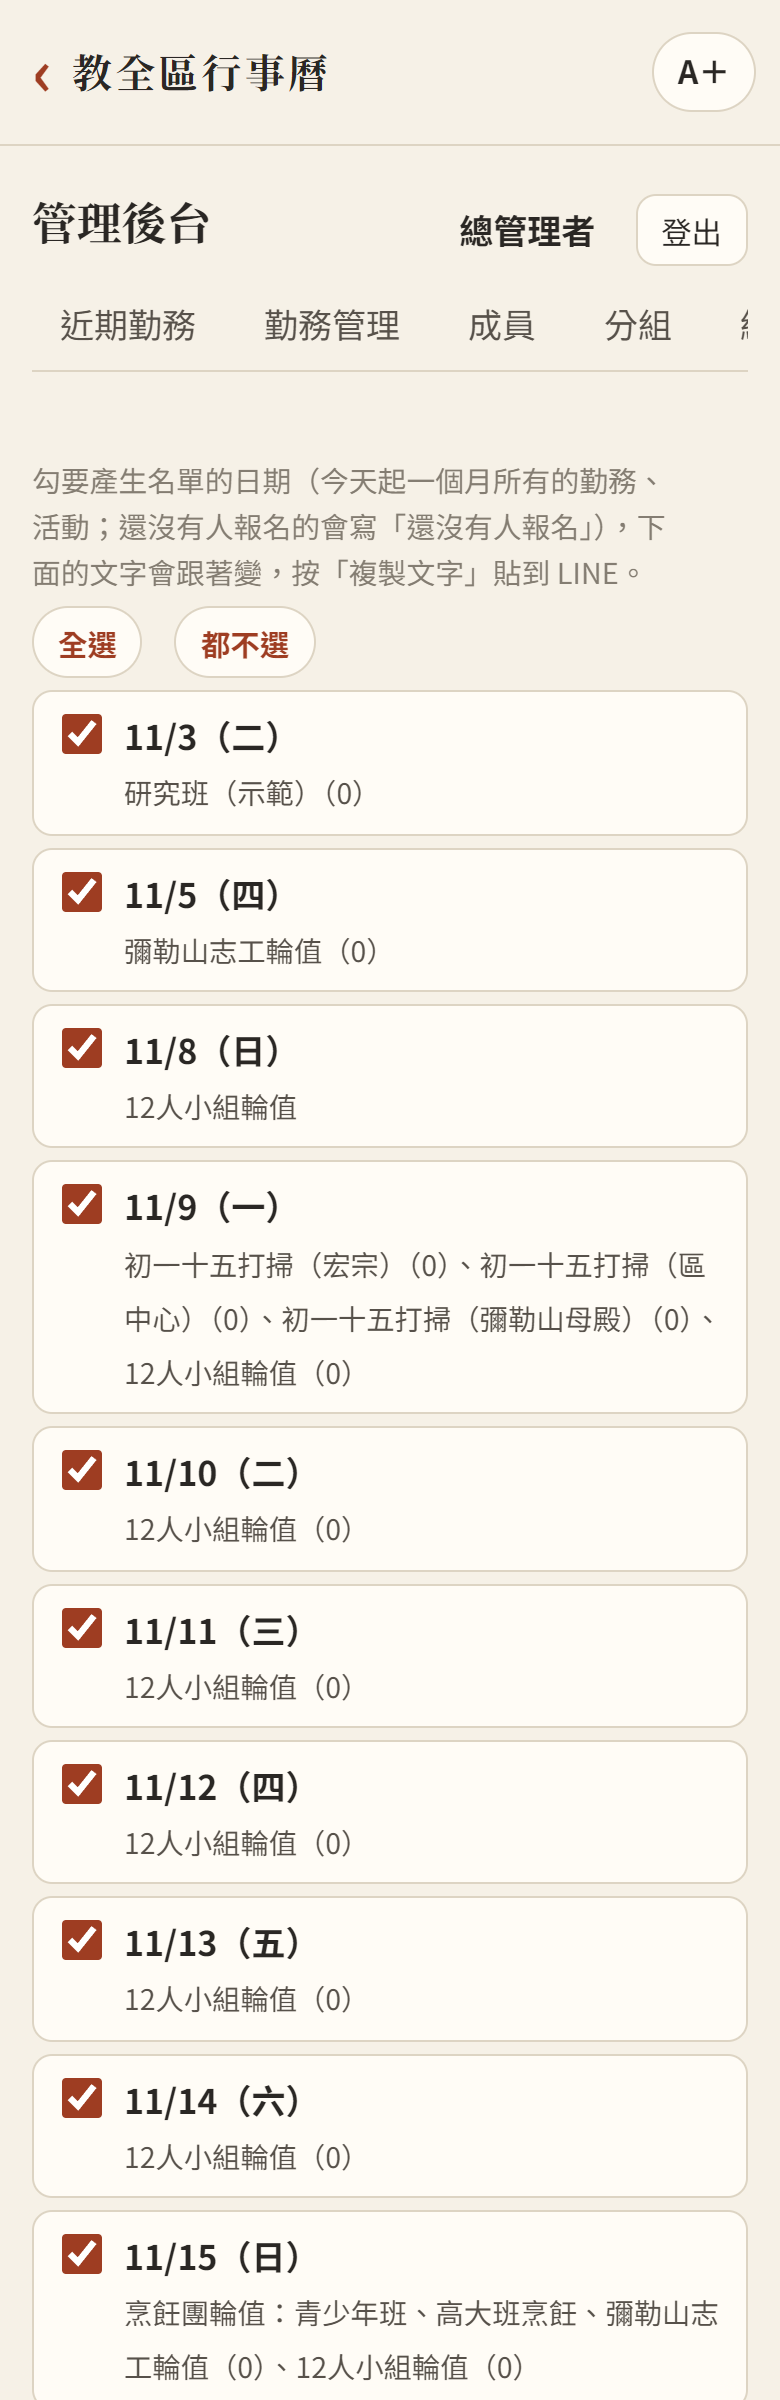
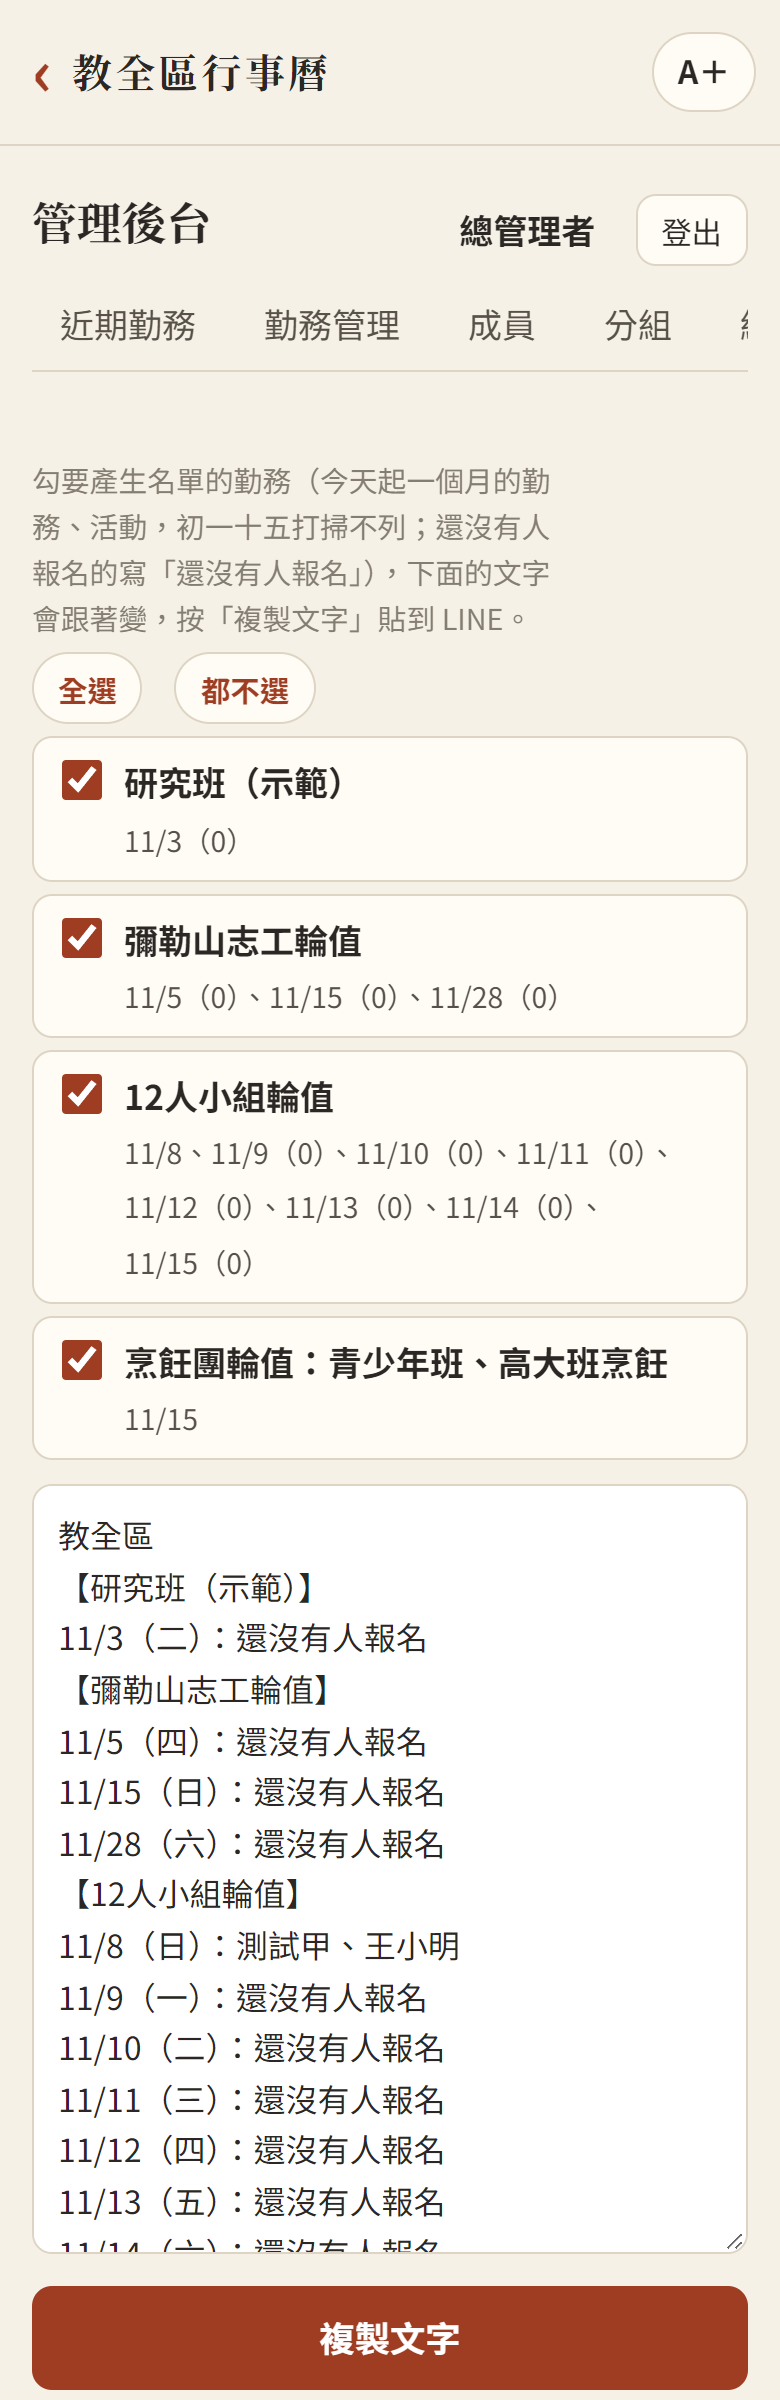
名單：依勤務分開，初一十五打掃不列

diff --git a/index.html b/index.html
@@ -19,7 +19,7 @@
   <link rel="preconnect" href="https://fonts.googleapis.com">
   <link rel="preconnect" href="https://fonts.gstatic.com" crossorigin>
   <link href="https://fonts.googleapis.com/css2?family=Noto+Sans+TC:wght@400;500;700&family=Noto+Serif+TC:wght@600;700&display=swap" rel="stylesheet">
-  <link rel="stylesheet" href="css/app.css?v=20261102a">
+  <link rel="stylesheet" href="css/app.css?v=20261102b">
   <script>try { var t = localStorage.getItem('duty-calendar:text-size'); if (t === 'l' || t === 'xl') document.documentElement.classList.add('text-' + t); } catch (e) {}</script>
 </head>
 <body class="splash-on">
@@ -111,54 +111,54 @@
   <script src="https://cdn.jsdelivr.net/npm/fullcalendar@6.1.21/index.global.min.js"></script>
   <script src="https://cdn.jsdelivr.net/npm/@fullcalendar/core@6.1.21/locales/zh-tw.global.min.js"></script>
   <!-- 改了 js、css 後把 ?v= 的日期換新，手機才不會用到舊的檔案（GitHub Pages 會快取 10 分鐘） -->
-  <script src="js/site.js?v=20261102a"></script>
-  <script src="js/config.js?v=20261102a"></script>
-  <script src="js/api.js?v=20261102a"></script>
-  <script src="js/format.js?v=20261102a"></script>
-  <script src="js/lunar-util.js?v=20261102a"></script>
-  <script src="js/date-list.js?v=20261102a"></script>
-  <script src="js/share.js?v=20261102a"></script>
-  <script src="js/addcal.js?v=20261102a"></script>
-  <script src="js/duty-cache.js?v=20261102a"></script>
-  <script src="js/calendar.js?v=20261102a"></script>
-  <script src="js/confirm.js?v=20261102a"></script>
-  <script src="js/reschedule.js?v=20261102a"></script>
-  <script src="js/signup.js?v=20261102a"></script>
-  <script src="js/duty-images.js?v=20261102a"></script>
-  <script src="js/roster-grid.js?v=20261102a"></script>
-  <script src="js/grid-page.js?v=20261102a"></script>
-  <script src="js/duty.js?v=20261102a"></script>
-  <script src="js/mine.js?v=20261102a"></script>
-  <script src="js/venue-hours.js?v=20261102a"></script>
-  <script src="js/venue.js?v=20261102a"></script>
-  <script src="js/push.js?v=20261102a"></script>
-  <script src="js/admin.js?v=20261102a"></script>
-  <script src="js/admin-pages.js?v=20261102a"></script>
-  <script src="js/draft-editor.js?v=20261102a"></script>
-  <script src="js/group-fair.js?v=20261102a"></script>
-  <script src="js/admin-duties.js?v=20261102a"></script>
-  <script src="js/admin-accounts.js?v=20261102a"></script>
-  <script src="js/import-parse.js?v=20261102a"></script>
-  <script src="js/admin-import.js?v=20261102a"></script>
-  <script src="js/admin-people.js?v=20261102a"></script>
-  <script src="js/stats-calc.js?v=20261102a"></script>
-  <script src="js/edu-stats.js?v=20261102a"></script>
-  <script src="js/admin-goals.js?v=20261102a"></script>
-  <script src="js/admin-venue.js?v=20261102a"></script>
-  <script src="js/admin-push.js?v=20261102a"></script>
-  <script src="js/tutorial.js?v=20261102a"></script>
-  <script src="js/help.js?v=20261102a"></script>
-  <script src="js/rollcall.js?v=20261102a"></script>
-  <script src="js/stats-export.js?v=20261102a"></script>
-  <script src="js/repair.js?v=20261102a"></script>
-  <script src="js/member-stats.js?v=20261102a"></script>
-  <script src="js/admin-stats.js?v=20261102a"></script>
-  <script src="js/admin-report.js?v=20261102a"></script>
-  <script src="js/admin-recent-signups.js?v=20261102a"></script>
-  <script src="js/admin-notice.js?v=20261102a"></script>
-  <script src="js/history-parse.js?v=20261102a"></script>
-  <script src="js/admin-history.js?v=20261102a"></script>
-  <script src="js/easy-mode.js?v=20261102a"></script>
-  <script src="js/app.js?v=20261102a"></script>
+  <script src="js/site.js?v=20261102b"></script>
+  <script src="js/config.js?v=20261102b"></script>
+  <script src="js/api.js?v=20261102b"></script>
+  <script src="js/format.js?v=20261102b"></script>
+  <script src="js/lunar-util.js?v=20261102b"></script>
+  <script src="js/date-list.js?v=20261102b"></script>
+  <script src="js/share.js?v=20261102b"></script>
+  <script src="js/addcal.js?v=20261102b"></script>
+  <script src="js/duty-cache.js?v=20261102b"></script>
+  <script src="js/calendar.js?v=20261102b"></script>
+  <script src="js/confirm.js?v=20261102b"></script>
+  <script src="js/reschedule.js?v=20261102b"></script>
+  <script src="js/signup.js?v=20261102b"></script>
+  <script src="js/duty-images.js?v=20261102b"></script>
+  <script src="js/roster-grid.js?v=20261102b"></script>
+  <script src="js/grid-page.js?v=20261102b"></script>
+  <script src="js/duty.js?v=20261102b"></script>
+  <script src="js/mine.js?v=20261102b"></script>
+  <script src="js/venue-hours.js?v=20261102b"></script>
+  <script src="js/venue.js?v=20261102b"></script>
+  <script src="js/push.js?v=20261102b"></script>
+  <script src="js/admin.js?v=20261102b"></script>
+  <script src="js/admin-pages.js?v=20261102b"></script>
+  <script src="js/draft-editor.js?v=20261102b"></script>
+  <script src="js/group-fair.js?v=20261102b"></script>
+  <script src="js/admin-duties.js?v=20261102b"></script>
+  <script src="js/admin-accounts.js?v=20261102b"></script>
+  <script src="js/import-parse.js?v=20261102b"></script>
+  <script src="js/admin-import.js?v=20261102b"></script>
+  <script src="js/admin-people.js?v=20261102b"></script>
+  <script src="js/stats-calc.js?v=20261102b"></script>
+  <script src="js/edu-stats.js?v=20261102b"></script>
+  <script src="js/admin-goals.js?v=20261102b"></script>
+  <script src="js/admin-venue.js?v=20261102b"></script>
+  <script src="js/admin-push.js?v=20261102b"></script>
+  <script src="js/tutorial.js?v=20261102b"></script>
+  <script src="js/help.js?v=20261102b"></script>
+  <script src="js/rollcall.js?v=20261102b"></script>
+  <script src="js/stats-export.js?v=20261102b"></script>
+  <script src="js/repair.js?v=20261102b"></script>
+  <script src="js/member-stats.js?v=20261102b"></script>
+  <script src="js/admin-stats.js?v=20261102b"></script>
+  <script src="js/admin-report.js?v=20261102b"></script>
+  <script src="js/admin-recent-signups.js?v=20261102b"></script>
+  <script src="js/admin-notice.js?v=20261102b"></script>
+  <script src="js/history-parse.js?v=20261102b"></script>
+  <script src="js/admin-history.js?v=20261102b"></script>
+  <script src="js/easy-mode.js?v=20261102b"></script>
+  <script src="js/app.js?v=20261102b"></script>
 </body>
 </html>

diff --git a/js/admin-pages.js b/js/admin-pages.js
@@ -134,40 +134,55 @@
   }
 
   // ---------- 名單 ----------
-  // 今天起一個月有勤務或活動的日期（還沒有人報名的也列），勾選（可全選）後產生貼到 LINE 的文字：
+  // 今天起一個月的勤務或活動（還沒有人報名的也列；初一十五打掃不列），依勤務分開，勾選（可全選）後產生貼到 LINE 的文字：
   //   教全區
-  //   11/14（六）
-  //   勤務名稱人員:名字、名字
+  //   【勤務名稱】
+  //   11/14（六）：名字、名字
+
+  /** 名單不需要的勤務：初一十五打掃（2026/11/2） */
+  const ROSTER_SKIP = /初一十五打掃/;
+
+  /** 把「每天的勤務」改成「每個勤務的日期」：同名的勤務合在一起，依第一次的日期排序 */
+  function byDuty(days) {
+    const map = new Map();
+    days.forEach((d) => d.duties.forEach((x) => {
+      if (ROSTER_SKIP.test(x.name)) return;
+      if (!map.has(x.name)) map.set(x.name, { name: x.name, dates: [] });
+      map.get(x.name).dates.push({ date: d.date, names: x.names, notice: x.notice, group: x.group });
+    }));
+    return [...map.values()];
+  }
 
   function day(body, guard) {
     AdminPage.swr('roster', () => Api.admin('adminRoster', {}, true), (data, stale) => renderRoster(body, data, stale), body);
   }
 
   function renderRoster(body, data, stale) {
-    if (!data.days.length) {
+    const duties = byDuty(data.days);
+    if (!duties.length) {
       body.innerHTML = `${AdminPage.staleNote(stale)}<p class="panel-empty">今天起一個月沒有勤務或活動。</p>`;
       return;
     }
     const tomorrow = Fmt.addDays(data.today, 1);
-    const prev = new Set([...body.querySelectorAll('[data-roster-date]:checked')].map((c) => c.value));
-    const first = !body.querySelector('[data-roster-date]');
+    const prev = new Set([...body.querySelectorAll('[data-roster-duty]:checked')].map((c) => c.value));
+    const first = !body.querySelector('[data-roster-duty]');
+    const dateTag = (x) => esc(Fmt.shortDate(x.date).replace(/（.）$/, '')) + (x.notice || x.names.length ? '' : '（0）');
     body.innerHTML = `
       ${AdminPage.staleNote(stale)}
-      <p class="hint">勾要產生名單的日期（今天起一個月所有的勤務、活動；還沒有人報名的會寫「還沒有人報名」），下面的文字會跟著變，按「複製文字」貼到 LINE。</p>
+      <p class="hint">勾要產生名單的勤務（今天起一個月的勤務、活動，初一十五打掃不列；還沒有人報名的寫「還沒有人報名」），下面的文字會跟著變，按「複製文字」貼到 LINE。</p>
       <div class="roster-quick"><button type="button" class="link-btn" data-all>全選</button><button type="button" class="link-btn" data-none>都不選</button></div>
-      <div class="roster-dates">${data.days.map((d) => {
-        const on = first ? d.date === tomorrow : prev.has(d.date);
-        return `<label class="check roster-date"><input type="checkbox" data-roster-date value="${d.date}"${on ? ' checked' : ''}>
-          <span><strong>${esc(Fmt.shortDate(d.date))}</strong>${d.date === data.today ? '<small>今天</small>' : d.date === tomorrow ? '<small>明天</small>' : ''}<br><small>${esc(d.duties.map((x) => x.name + (x.notice || x.names.length ? '' : '（0）')).join('、'))}</small></span></label>`;
+      <div class="roster-dates">${duties.map((g, i) => {
+        const on = first ? g.dates.some((x) => x.date === tomorrow) : prev.has(String(i));
+        return `<label class="check roster-date"><input type="checkbox" data-roster-duty value="${i}"${on ? ' checked' : ''}>
+          <span><strong>${esc(g.name)}</strong><br><small>${g.dates.map(dateTag).join('、')}</small></span></label>`;
       }).join('')}</div>
       <textarea class="day-text" rows="14" aria-label="名單文字（可修改）"></textarea>
       <button type="button" class="btn btn-primary btn-block" data-copy>複製文字</button>
       <p class="hint">可以先在框內修改，再按「複製文字」。名單不含電話。</p>`;
     const area = body.querySelector('textarea');
-    const boxes = () => [...body.querySelectorAll('[data-roster-date]')];
+    const boxes = () => [...body.querySelectorAll('[data-roster-duty]')];
     const update = () => {
-      const picked = new Set(boxes().filter((c) => c.checked).map((c) => c.value));
-      area.value = rosterText(data.days.filter((d) => picked.has(d.date)));
+      area.value = rosterText(boxes().filter((c) => c.checked).map((c) => duties[Number(c.value)]));
     };
     boxes().forEach((c) => c.addEventListener('change', update));
     body.querySelector('[data-all]').addEventListener('click', () => { boxes().forEach((c) => { c.checked = true; }); update(); });
@@ -176,13 +191,13 @@
     update();
   }
 
-  /** 名單文字：教全區＋每個日期一段，每個勤務一行「名稱人員:名字、名字」 */
-  function rosterText(days) {
-    if (!days.length) return '';
+  /** 名單文字：教全區＋每個勤務一段「【名稱】」，每天一行「日期：名字、名字」 */
+  function rosterText(duties) {
+    if (!duties.length) return '';
     const lines = [window.SITE.org];
-    days.forEach((d) => {
-      lines.push(Fmt.shortDate(d.date));
-      d.duties.forEach((x) => lines.push(x.notice ? `${x.name}：${x.group ? x.group + '輪值' : '公告'}` : `${x.name}人員:${x.names.length ? x.names.join('、') : '還沒有人報名'}`));
+    duties.forEach((g) => {
+      lines.push(`【${g.name}】`);
+      g.dates.forEach((x) => lines.push(`${Fmt.shortDate(x.date)}：${x.notice ? (x.group ? x.group + '輪值' : '公告') : x.names.length ? x.names.join('、') : '還沒有人報名'}`));
     });
     return lines.join('\n');
   }
@@ -202,5 +217,5 @@
     setTimeout(() => { button.textContent = '複製文字'; }, 2500);
   }
 
-  window.AdminPages = { logs, day, rosterText };
+  window.AdminPages = { logs, day, rosterText, byDuty };
 })();

diff --git a/docs/spec.md b/docs/spec.md
@@ -313,6 +313,7 @@
 - **大張職司表的列數（2026/10/26）**：了愿項目有填「最多」就顯示那麼多列（報名超過最多時照實際人數）；沒填最多的照報名最多的那天，明天以後有一天已經沒空格就多一列。管理者改「最多」就能增減列數。
 - **放到首頁（2026/10/26）**：勤務表單有「📌 放到首頁」勾選（「勤務」分頁最後一欄「首頁置頂」＝是）；行事曆首頁「借區中心場地」下面列出勾了、而且最後一天還沒過的勤務／活動大按鈕（名稱、日期、報名型寫「點我報名」），點了到報名頁；依開始日排序。資料來自行事曆已載入的年份資料（getEvents 的 pinned）。
 - **建議負責組（2026/11/2）**：後台新增／編輯類別「勤務」的勤務（非農曆規則）時，「負責組」下面顯示「💡 建議」：同一分組類型（還沒選就看勤務了愿組）的各組，依近一年（結束日在今天往前 365 天內，含之後已排的）負責筆數由少到多排，一樣多就最久沒輪到的優先；這筆日期當天已有勤務的組排最後；編輯中的這筆不算。按「用這組」直接選好，展開可看各組次數並選任何一組。只是建議，不強制。前端計算（js/group-fair.js，資料來自 adminDutyList）。
+- **名單依勤務分開（2026/11/2）**：後台「名單」改成依勤務（同名合併）分開勾選，不再依日期；初一十五打掃不列入名單。文字格式：教全區＋每個勤務一段「【名稱】」，每天一行「日期：名字、名字」（沒人寫「還沒有人報名」，公告型寫「組別輪值」）。預設勾明天有的勤務。前端整理（js/admin-pages.js byDuty），adminRoster 不變。
 
 ## 9. Google Sheet 資料表
 
